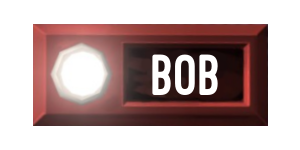
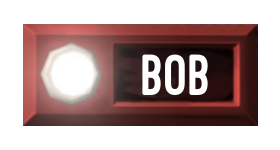
Finish edgework rendering

diff --git a/ktanesim/src/edgework/mod.rs b/ktanesim/src/edgework/mod.rs
@@ -1,8 +1,8 @@
 use crate::prelude::*;
 use cairo::ImageSurface;
+use ktane_utils::edgework::{Indicator, PortPlate, PortType, SerialNumber};
 use lazy_static::lazy_static;
 use serenity::utils::Colour;
-use ktane_utils::edgework::{SerialNumber, Indicator};
 
 pub fn cmd_edgework(
     ctx: &Context,
@@ -19,7 +19,7 @@ pub fn cmd_edgework(
     Ok(())
 }
 
-const RENDER_SLOT_DIM: (i32, i32) = (300, 150);
+const RENDER_SLOT_DIM: (i32, i32) = (280, 150);
 const RENDER_SLOTS: (i32, i32) = (3, 2);
 
 impl crate::bomb::Bomb {
@@ -35,7 +35,8 @@ impl crate::bomb::Bomb {
             .unwrap();
 
             let ctx = CairoContext::new(&surface);
-            let mut slots = (0..RENDER_SLOTS.0).flat_map(|x| (0..RENDER_SLOTS.1).map(move |y| (x, y)));
+            let mut slots =
+                (0..RENDER_SLOTS.0).flat_map(|x| (0..RENDER_SLOTS.1).map(move |y| (x, y)));
             let mut render = |widget: &dyn Widget| {
                 let (x, y) = slots.next().unwrap();
                 ctx.save();
@@ -64,6 +65,10 @@ impl crate::bomb::Bomb {
                 render(&indicator);
             }
 
+            for port_plate in &edgework.port_plates {
+                render(port_plate);
+            }
+
             output_png(surface)
         })
     }
@@ -78,6 +83,9 @@ fn centered_texture(ctx: &CairoContext, texture: &SharedTexture) {
     ctx.paint();
 }
 
+// FIXME: The text is rendered using Cairo's "toy" text API. We might want to figure out how to use
+// FreeType or similar. This could allow us to keep the fonts in the repository and just include
+// them like the textures, making setup easier. The downside is that the docs are a clusterfuck.
 fn centered_text(ctx: &CairoContext, text: &str, x: f64, y: f64) {
     // The "current point" used by show_text is the same as the one used for paths. This behavior
     // made only the first text object render properly. As a fix, `new_path` is called before each
@@ -92,11 +100,21 @@ trait Widget {
     fn render(&self, ctx: &CairoContext);
 }
 
+macro_rules! texture {
+    ($($name:ident = $file:tt;)+) => {
+        $(
+            lazy_static! {
+                static ref $name: SharedTexture =
+                    SharedTexture::new(include_bytes!($file));
+            }
+        )+
+    };
+}
+
 impl Widget for SerialNumber {
     fn render(&self, ctx: &CairoContext) {
-        lazy_static! {
-            static ref TEXTURE: SharedTexture =
-                SharedTexture::new(include_bytes!("Serial number.png"));
+        texture! {
+            TEXTURE = "Serial number.png";
         }
 
         centered_texture(ctx, &TEXTURE);
@@ -122,11 +140,9 @@ enum Battery {
 
 impl Widget for Battery {
     fn render(&self, ctx: &CairoContext) {
-        lazy_static! {
-            static ref TEXTURE_AA: SharedTexture =
-                SharedTexture::new(include_bytes!("BatteryAA.png"));
-            static ref TEXTURE_D: SharedTexture =
-                SharedTexture::new(include_bytes!("BatteryD.png"));
+        texture! {
+            TEXTURE_AA = "BatteryAA.png";
+            TEXTURE_D = "BatteryD.png";
         }
 
         match self {
@@ -138,19 +154,16 @@ impl Widget for Battery {
 
 impl Widget for Indicator {
     fn render(&self, ctx: &CairoContext) {
-        lazy_static! {
-            static ref TEXTURE_UNLIT: SharedTexture =
-                SharedTexture::new(include_bytes!("UnlitIndicator.png"));
-            static ref TEXTURE_LIT: SharedTexture =
-                SharedTexture::new(include_bytes!("LitIndicator.png"));
+        texture! {
+            TEXTURE_UNLIT = "UnlitIndicator.png";
+            TEXTURE_LIT = "LitIndicator.png";
         }
 
-        let texture: &SharedTexture = match self.lit {
-            true => &TEXTURE_LIT,
-            false => &TEXTURE_UNLIT,
+        match self.lit {
+            true => centered_texture(ctx, &TEXTURE_LIT),
+            false => centered_texture(ctx, &TEXTURE_UNLIT),
         };
 
-        centered_texture(ctx, texture);
         ctx.select_font_face(
             "Ostrich Sans",
             cairo::FontSlant::Normal,
@@ -162,30 +175,72 @@ impl Widget for Indicator {
     }
 }
 
+impl Widget for PortPlate {
+    fn render(&self, ctx: &CairoContext) {
+        texture! {
+            TEXTURE_BG = "PortPlate.png";
+            TEXTURE_DVI = "PortDVI.png";
+            TEXTURE_PS2 = "PortPS2.png";
+            TEXTURE_RJ45 = "PortRJ.png";
+            TEXTURE_RCA = "PortRCA.png";
+            TEXTURE_PARALLEL = "PortParallel.png";
+            TEXTURE_SERIAL = "PortSerial.png";
+        }
+
+        centered_texture(ctx, &TEXTURE_BG);
+
+        for port in self.ports().iter() {
+            match port {
+                PortType::DVI => {
+                    ctx.set_source_surface(&TEXTURE_DVI.to_surface(), -119.0, -5.0);
+                }
+                PortType::PS2 => {
+                    ctx.set_source_surface(&TEXTURE_PS2.to_surface(), 31.0, -47.0);
+                }
+                PortType::RJ45 => {
+                    ctx.set_source_surface(&TEXTURE_RJ45.to_surface(), -122.0, -49.0);
+                }
+                PortType::StereoRCA => {
+                    ctx.set_source_surface(&TEXTURE_RCA.to_surface(), 81.0, -26.0);
+                }
+                PortType::Parallel => {
+                    ctx.set_source_surface(&TEXTURE_PARALLEL.to_surface(), -103.0, -46.0);
+                }
+                PortType::Serial => {
+                    ctx.set_source_surface(&TEXTURE_SERIAL.to_surface(), -54.0, 0.0);
+                }
+            }
+
+            ctx.paint();
+        }
+    }
+}
+
 #[cfg(test)]
 mod tests {
     use super::*;
 
     fn render_comparison(widget: impl Widget, mut expected: &[u8], actual: &str) {
-        let mut surface = ImageSurface::create(
-            cairo::Format::ARgb32,
-            RENDER_SLOT_DIM.0,
-            RENDER_SLOT_DIM.1,
-        ).expect("Cannot create test surface");
+        let mut surface =
+            ImageSurface::create(cairo::Format::ARgb32, RENDER_SLOT_DIM.0, RENDER_SLOT_DIM.1)
+                .expect("Cannot create test surface");
         let ctx = CairoContext::new(&surface);
-        ctx.translate((RENDER_SLOT_DIM.0 / 2) as f64, (RENDER_SLOT_DIM.1 / 2) as f64);
+        ctx.translate(
+            (RENDER_SLOT_DIM.0 / 2) as f64,
+            (RENDER_SLOT_DIM.1 / 2) as f64,
+        );
         widget.render(&ctx);
         drop(ctx);
 
-        let mut expected = ImageSurface::create_from_png(
-            &mut expected
-        ).expect("Cannot parse expected result");
+        let mut expected =
+            ImageSurface::create_from_png(&mut expected).expect("Cannot parse expected result");
 
         if *expected.get_data().unwrap() != *surface.get_data().unwrap() {
-            surface.write_to_png(
-                &mut std::fs::File::create(actual)
-                .expect("Cannot create result file")
-            ).expect("Cannot write to result file");
+            surface
+                .write_to_png(
+                    &mut std::fs::File::create(actual).expect("Cannot create result file"),
+                )
+                .expect("Cannot write to result file");
             panic!("Pixels don't match");
         }
     }
@@ -193,12 +248,23 @@ mod tests {
     #[test]
     fn serial_number_font() {
         let serial: SerialNumber = "TW8LF0".parse().unwrap();
-        render_comparison(serial, include_bytes!("Serial-expected.png"), "Serial-actual.png");
+        render_comparison(
+            serial,
+            include_bytes!("Serial-expected.png"),
+            "Serial-actual.png",
+        );
     }
 
     #[test]
     fn indicator_font() {
-        let indicator = Indicator { code: ktane_utils::edgework::IndicatorCode::BOB, lit: true };
-        render_comparison(indicator, include_bytes!("Indicator-expected.png"), "Indicator-actual.png");
+        let indicator = Indicator {
+            code: ktane_utils::edgework::IndicatorCode::BOB,
+            lit: true,
+        };
+        render_comparison(
+            indicator,
+            include_bytes!("Indicator-expected.png"),
+            "Indicator-actual.png",
+        );
     }
 }
